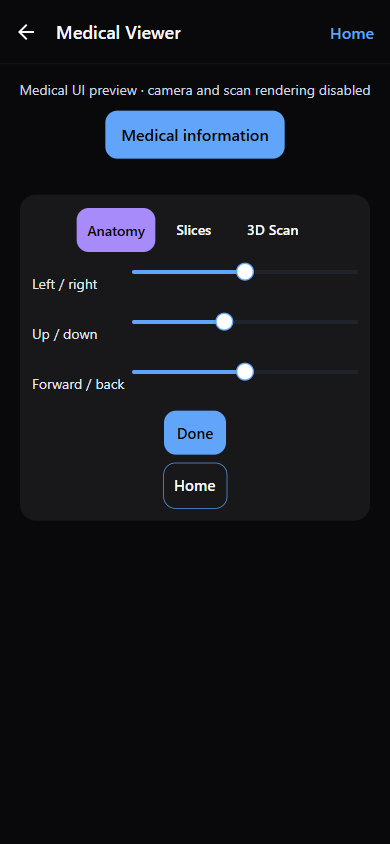
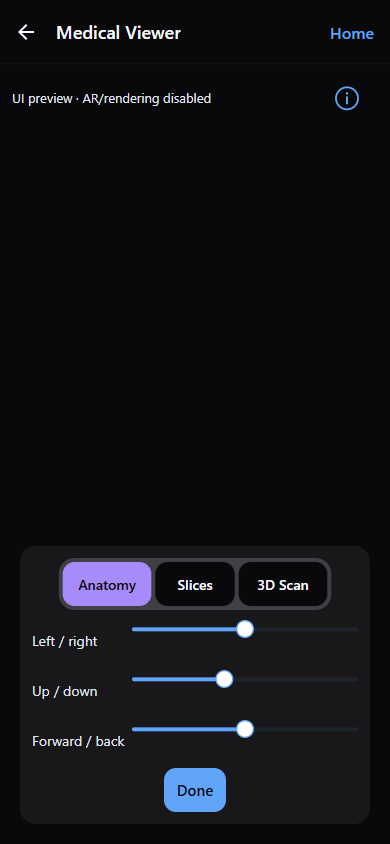
fix: clarify compact medical choice controls

diff --git a/src/features/medical-viewer/medical-ui.tsx b/src/features/medical-viewer/medical-ui.tsx
@@ -1,5 +1,5 @@
 import { createContext, useContext, type ReactElement, type ReactNode } from 'react';
-import { Platform } from 'react-native';
+import { Platform, StyleSheet, View } from 'react-native';
 import { GameButton } from '@/ui/game-button';
 import { useGameWindowDimensions } from '@/ui/use-game-window-dimensions';
 import { useAppTheme } from '@/theme/provider';
@@ -20,6 +20,19 @@ export function MedicalWidthProvider({ width, children }: { width: number; child
   );
 }
 
+export function MedicalChoiceGroup({ children, testID }: { children: ReactNode; testID?: string }) {
+  const { width } = useGameWindowDimensions();
+  const measuredWidth = useContext(MedicalWidthContext);
+  const availableWidth = measuredWidth ?? Math.max(44, Math.min(width - 64, 520));
+  return (
+    <View testID={testID} style={styles.choiceGroup}>
+      <MedicalWidthProvider width={availableWidth - 2 * styles.choiceGroup.padding}>
+        {children}
+      </MedicalWidthProvider>
+    </View>
+  );
+}
+
 export function MedicalControl({
   label,
   accessibilityLabel,
@@ -31,19 +44,25 @@ export function MedicalControl({
   width,
   fontFamily,
   fontSize = 15,
+  singleLine = false,
   icon,
   iconOnly = false,
-}: ARControlProps & { icon?: ReactElement; iconOnly?: boolean; fontSize?: number }) {
+}: ARControlProps & {
+  icon?: ReactElement;
+  iconOnly?: boolean;
+  fontSize?: number;
+  singleLine?: boolean;
+}) {
   const colors = useMedicalColors();
   const { width: viewportWidth, fontScale } = useGameWindowDimensions();
   const measuredWidth = useContext(MedicalWidthContext);
   const availableWidth = measuredWidth ?? Math.max(44, Math.min(viewportWidth - 64, 520));
   const choice = selected !== undefined;
   const secondaryAction = label === 'Home' || /^(Reset|Restart|Reposition)/.test(label);
-  const filled = choice ? !!selected : !secondaryAction;
-  const color = choice ? (selected ? colors.secondary : colors.surface) : colors.primary;
-  // Short labels need room for wide glyphs (for example the "m" in Home).
-  const glyphWidth = label.length <= 4 ? 0.7 : 0.6;
+  const filled = choice || !secondaryAction;
+  const color = choice ? (selected ? colors.secondary : colors.background) : colors.primary;
+  // Keep short choices such as Anatomy intact; wrap buttons rather than their labels.
+  const glyphWidth = singleLine || label.length <= 4 ? 0.7 : 0.6;
   const naturalWidth =
     Math.ceil((label.length * fontSize * glyphWidth + 4) * fontScale) +
     (Platform.OS === 'android' ? 24 : 16) +
@@ -61,11 +80,27 @@ export function MedicalControl({
       fontFamily={fontFamily}
       fontSize={fontSize}
       compact
+      singleLine={singleLine}
       color={color}
-      textColor={filled ? colors.background : colors.text}
+      textColor={filled && (!choice || selected) ? colors.background : colors.text}
       variant={filled ? 'filled' : 'outlined'}
       icon={icon}
       iconOnly={iconOnly}
     />
   );
 }
+
+const styles = StyleSheet.create({
+  choiceGroup: {
+    alignSelf: 'center',
+    maxWidth: '100%',
+    flexDirection: 'row',
+    flexWrap: 'wrap',
+    alignItems: 'center',
+    justifyContent: 'center',
+    gap: 4,
+    padding: 4,
+    borderRadius: 16,
+    backgroundColor: '#3f3f46',
+  },
+});

diff --git a/src/features/medical-viewer/medical-viewer-screen.native.tsx b/src/features/medical-viewer/medical-viewer-screen.native.tsx
@@ -11,7 +11,12 @@ import {
   medicalStatus,
   type MedicalSnapshot,
 } from './medical-controller';
-import { MedicalControl as ARControl, MedicalWidthProvider, useMedicalColors } from './medical-ui';
+import {
+  MedicalControl as ARControl,
+  MedicalChoiceGroup,
+  MedicalWidthProvider,
+  useMedicalColors,
+} from './medical-ui';
 import { MedicalInfoButton, MedicalInfoModal } from './medical-info.native';
 import { MedicalModelPicker } from './medical-model-picker.native';
 import { MedicalTransformControls } from './medical-transform-controls.native';
@@ -212,10 +217,11 @@ export function MedicalControls({
         onLayout={(event) => setMeasuredWidth(event.nativeEvent.layout.width)}
         style={[styles.panel, { backgroundColor: colors.surface }]}>
         <MedicalStatus state={state} />
-        <View style={styles.modeActions}>
+        <MedicalChoiceGroup testID="medical-mode-group">
           <ARControl
             label="Anatomy"
             fontSize={14}
+            singleLine
             accessibilityLabel="3D Anatomy"
             selected={state.mode === 'anatomy'}
             testID="medical-mode-anatomy"
@@ -227,6 +233,7 @@ export function MedicalControls({
           <ARControl
             label="Slices"
             fontSize={14}
+            singleLine
             accessibilityLabel="Scan Slices"
             selected={state.mode === 'slices'}
             testID="medical-mode-slices"
@@ -238,6 +245,7 @@ export function MedicalControls({
           <ARControl
             label="3D Scan"
             fontSize={14}
+            singleLine
             selected={state.mode === 'volume'}
             testID="medical-mode-volume"
             onPress={() => {
@@ -245,7 +253,7 @@ export function MedicalControls({
               controller.selectViewerMode(context.sessionId, 'volume');
             }}
           />
-        </View>
+        </MedicalChoiceGroup>
         {(state.mode === 'volume'
           ? state.volume.loadStatus
           : state.mode === 'anatomy'
@@ -275,9 +283,6 @@ export function MedicalControls({
           onDone={() => setTransformRevision(null)}
           onRestart={restart}
         />
-        <View style={styles.centered}>
-          <ARControl label="Home" testID="medical-home" onPress={context.home} />
-        </View>
         <MedicalVolumeSheet controller={controller} state={state} sessionId={context.sessionId} />
       </View>
     </MedicalWidthProvider>
@@ -349,13 +354,6 @@ const styles = StyleSheet.create({
     gap: 8,
     borderRadius: 16,
     padding: 12,
-  },
-  modeActions: {
-    flexDirection: 'row',
-    flexWrap: 'wrap',
-    alignItems: 'center',
-    justifyContent: 'center',
-    gap: 2,
   },
   centered: {
     alignItems: 'center',

diff --git a/src/features/medical-viewer/medical-volume-controls.native.tsx b/src/features/medical-viewer/medical-volume-controls.native.tsx
@@ -8,7 +8,7 @@ import { version as viroJSVersion } from '@reactvision/react-viro/package.json';
 import stackMetadata from '../../../assets/medical/stack/metadata.json';
 import { volumeUniforms } from './medical-volume-uniforms';
 import { stackPlaneGeometry } from './medical-volume-stack';
-import { MedicalControl as ARControl, useMedicalColors } from './medical-ui';
+import { MedicalControl as ARControl, MedicalChoiceGroup, useMedicalColors } from './medical-ui';
 import { MedicalSheet } from './medical-sheet.native';
 import { GameCopy } from '@/ui/game-text';
 import { ARTransformEditor } from '@/features/ar/ar-transform-editor.native';
@@ -352,18 +352,19 @@ export function MedicalVolumeControls({
           {state.volume.diagnostics.at(-1)}
         </Text>
       ) : null}
-      <View style={styles.centeredActions}>
+      <MedicalChoiceGroup testID="medical-volume-modality-group">
         {(['mri', 'ct'] as const).map((modality) => (
           <ARControl
             key={modality}
             label={modality.toUpperCase()}
+            singleLine
             selected={state.volume.modality === modality}
             disabled={!controller.getVolumeSeries(modality)}
             testID={`medical-volume-modality-${modality}`}
             onPress={() => controller.selectVolumeModality(sessionId, modality)}
           />
         ))}
-      </View>
+      </MedicalChoiceGroup>
       <View style={styles.centeredActions}>
         <ARControl
           label="Controls"

diff --git a/src/features/medical-viewer/medical-slice-controls.native.tsx b/src/features/medical-viewer/medical-slice-controls.native.tsx
@@ -3,7 +3,7 @@ import { Host, Slider } from '@expo/ui';
 import { accessibilityLabel, accessibilityValue, frame } from '@expo/ui/swift-ui/modifiers';
 import { fillMaxWidth, height, semantics } from '@expo/ui/jetpack-compose/modifiers';
 import { StyleSheet, Platform, Text, View } from 'react-native';
-import { MedicalControl as ARControl, useMedicalColors } from './medical-ui';
+import { MedicalControl as ARControl, MedicalChoiceGroup, useMedicalColors } from './medical-ui';
 import { ARTransformEditor } from '@/features/ar/ar-transform-editor.native';
 import {
   canManipulateSlices,
@@ -41,11 +41,12 @@ export function MedicalSliceControls({
   );
   return (
     <View style={styles.group} testID="medical-slice-controls">
-      <View style={styles.controlRow}>
+      <MedicalChoiceGroup testID="medical-slice-modality-group">
         {(['mri', 'ct'] as const).map((modality) => (
           <ARControl
             key={modality}
             label={modality.toUpperCase()}
+            singleLine
             selected={slices.modality === modality}
             disabled={!controller.getSliceSeries(modality)}
             testID={`medical-modality-${modality}`}
@@ -55,7 +56,7 @@ export function MedicalSliceControls({
             }}
           />
         ))}
-      </View>
+      </MedicalChoiceGroup>
       {series ? (
         <>
           <Text

diff --git a/src/ui/game-button.tsx b/src/ui/game-button.tsx
@@ -16,6 +16,7 @@ export interface GameButtonProps {
   icon?: ReactElement;
   iconOnly?: boolean;
   compact?: boolean;
+  singleLine?: boolean;
   testID?: string;
   width?: number;
   variant?: 'filled' | 'outlined' | 'text';
@@ -36,6 +37,7 @@ export function GameButton({
   icon,
   iconOnly = false,
   compact = false,
+  singleLine = false,
   testID,
   width,
   variant = 'filled',
@@ -55,7 +57,7 @@ export function GameButton({
       ? Math.max(1, buttonWidth - 2 * horizontalPadding - 2 * borderWidth - (icon ? 30 : 0))
       : undefined;
   const lines =
-    labelWidth && !iconOnly
+    labelWidth && !iconOnly && !singleLine
       ? Math.max(1, Math.ceil((label.length * fontSize * fontScale * 0.6) / labelWidth))
       : 1;
   const height = Math.max(
@@ -124,6 +126,7 @@ export function GameButton({
           <Row spacing={iconOnly ? 0 : 6} alignment="center">
             {icon ? <RNHostView matchContents>{icon}</RNHostView> : null}
             <Text
+              numberOfLines={singleLine ? 1 : undefined}
               // Keep an accessible name for icon-only buttons on web.
               style={
                 iconOnly

diff --git a/project/agent/completions/medical-universal-ui.md b/project/agent/completions/medical-universal-ui.md
@@ -15,7 +15,7 @@ October 11, 2026. The owner chose to merge Arena first, then review Medical styl
 - Anatomy, all four model choices, slices, 3D Scan, transforms, status/retry, scan controls, diagnostics, and information retain their callbacks, scopes, test IDs, and accessibility state. The universal picker handles available models; native availability menus remain for disabled entries.
 - Medical Information and Scan Controls share a measured Expo UI BottomSheet with a pinned title/Done header, explicit content width, and an independently bounded scrolling body. Native content waits for the sheet's actual measured width before embedding text; zero-width measurements do not mount it. Dark sheet styling is explicit. Buttons wrap within their measured area; slider scheduling and dismissal cancellation are preserved.
 - A configurable control component lets Medical theme the shared transform UI without changing Arena or Qubit control behavior. GameButton now accepts an optional spoken accessibility label.
-- Compact Medical controls use 44-point button targets, smaller horizontal padding, 4-point action gaps, and dense slider rows. Anatomy/Slices/3D Scan fit a narrow phone row; volume actions wrap into two rows. Shortened visible labels retain their complete spoken names. Large text increases button height, and dense transforms retain all three fields plus Reposition/Done. The shared compact options are opt-in; Home, Arena, and Qubit keep their existing sizing.
+- Compact Medical controls use 44-point button targets, smaller horizontal padding, 4-point action gaps, and dense slider rows. The mode and MRI/CT choices have snug grey group backgrounds, black unselected buttons, and purple selected buttons. Mode labels reserve more native text width and stay on one line; the group wraps buttons when space is limited. The duplicate Home action was removed from the controls panel; navigation and permission/error exits remain. Shortened visible labels retain their complete spoken names. Large text increases button height, and dense transforms retain all three fields plus Reposition/Done. Shared compact/single-line options are opt-in; Home, Arena, and Qubit keep their existing sizing and wrapping.
 - Remaining utility styles were converted in shared status/fallback UI and navigation. Uniwind/Tailwind dependencies, Metro wrapper, CSS imports, and generated typings were removed; native theme tokens are retained.
 - The follow-up transform parity change gives Robots, Qubit, Anatomy, Scan Slices, and 3D Scan one compact editor: Scale, Rotate, XYZ Position, Reposition, and Done. Position's Done returns to the transform editor. X/Z are bounded to five feet each way; Y remains zero to five feet above the placed surface. Qubit and the three Medical representations now store/render independent horizontal offsets. This functional change updates controller pose fields and scene translations, beyond the preceding styling-only migration. It preserves Qubit's ground clearance and quantum jobs, medical scan/crop/appearance data, gesture/placement scopes, and multiplayer setup locks. Robot Reposition uses its saved shared frame or its own remote plane without restarting the relay.
 

diff --git a/project/design/medical-ui/README.md b/project/design/medical-ui/README.md
@@ -2,10 +2,12 @@
 
 `previous-device-sheet.png` is the owner's earlier iPhone report (`IMG_3687.png`), before the scan sheet width/contrast fixes. It is historical evidence, not a capture of the saved medical baseline.
 
-The six `*-preview.png` images show the updated medical control tree through Expo UI's browser implementations at 390 × 844. They cover Anatomy, Scan Slices, the scan controls sheet, Medical Information, the shared transform editor, and its XYZ Position controls. The preview substitutes AR/native modifiers and automatically completes asset loading so the controls can be inspected without a camera. Scientific images and actual native rendering are not simulated.
+The `*-preview.png` images show the updated medical control tree through Expo UI's browser implementations at 390 × 844. They cover Anatomy, Scan Slices, 3D Scan, the scan controls sheet, Medical Information, the shared transform editor, and its XYZ Position controls. The preview substitutes AR/native modifiers and automatically completes asset loading so the controls can be inspected without a camera. Scientific images and actual native rendering are not simulated.
 
 The updated sheet was also checked at 320 × 568, 844 × 390, and 1024 × 768. Its scrolling body is bounded independently of the pinned Done header; larger widths cap content at 560 points. Component tests cover native measurements and large text. Physical iPhone acceptance remains required.
 
 The previews include the compact-control pass: 44-point buttons, narrower model selection, smaller gaps, dense transform sliders, and short labels with complete accessibility names. Native picker/slider hit regions use their platform implementation; their browser rendering is supplementary evidence.
+
+The mode and MRI/CT groups have grey backgrounds with four points of padding around black unselected and purple selected buttons. Their labels stay on one line; the buttons wrap as a group at narrow widths or large text sizes. The controls panel no longer duplicates the navigation Home action.
 
 Robots, Qubit, and all Medical representations now share the editor shown in `transform-controls-preview.png` and `position-controls-preview.png`. Scale/Rotate and Position/Reposition/Done use wrapping rows; Position has left/right, up/down, and forward/back sliders. Component tests verify all five wrappers against their real controllers. Actual scene motion still needs phone acceptance.
